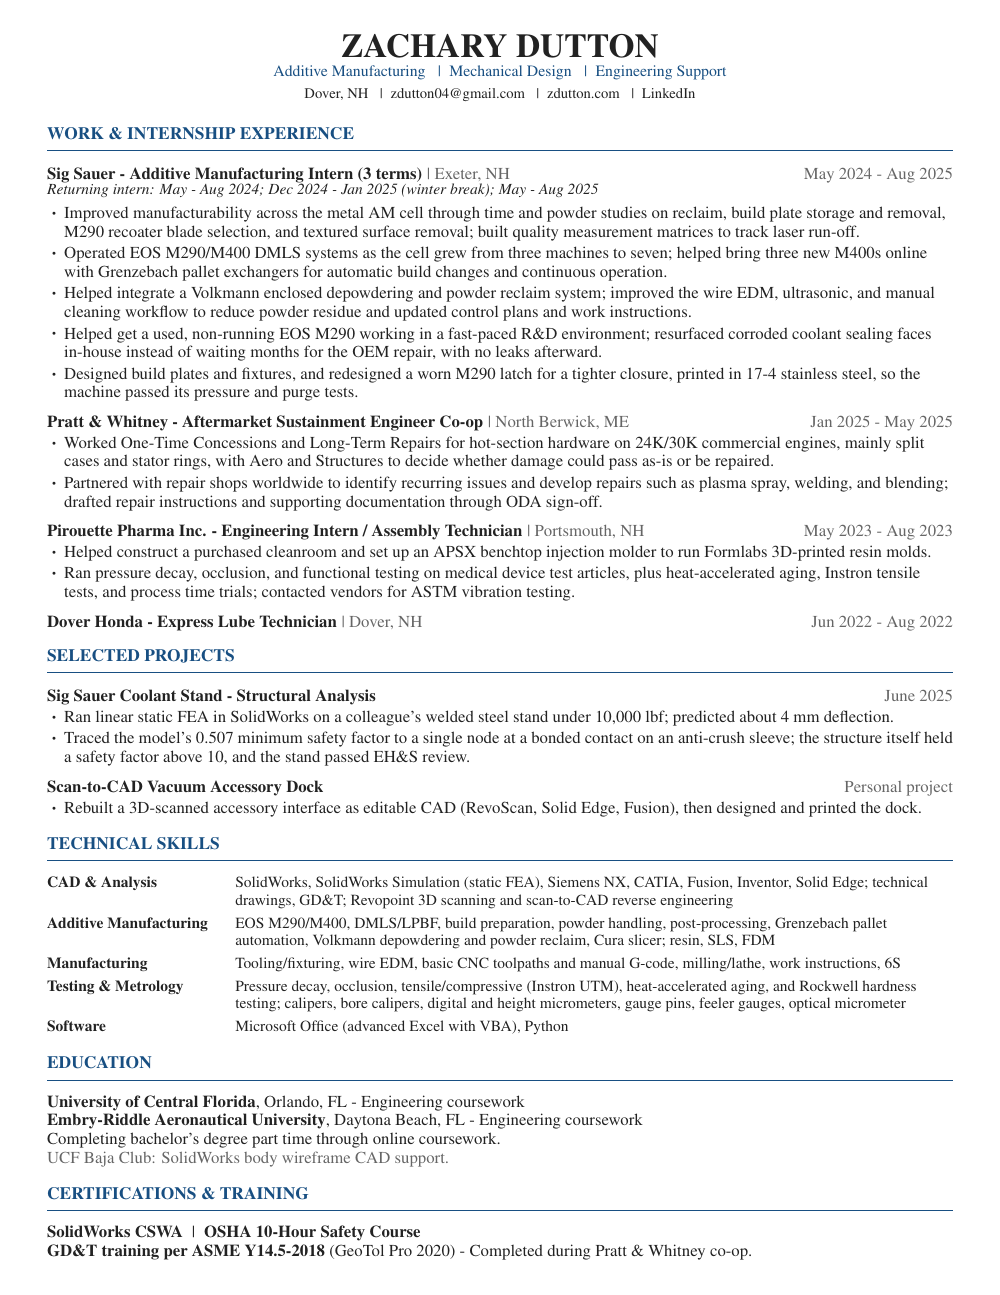
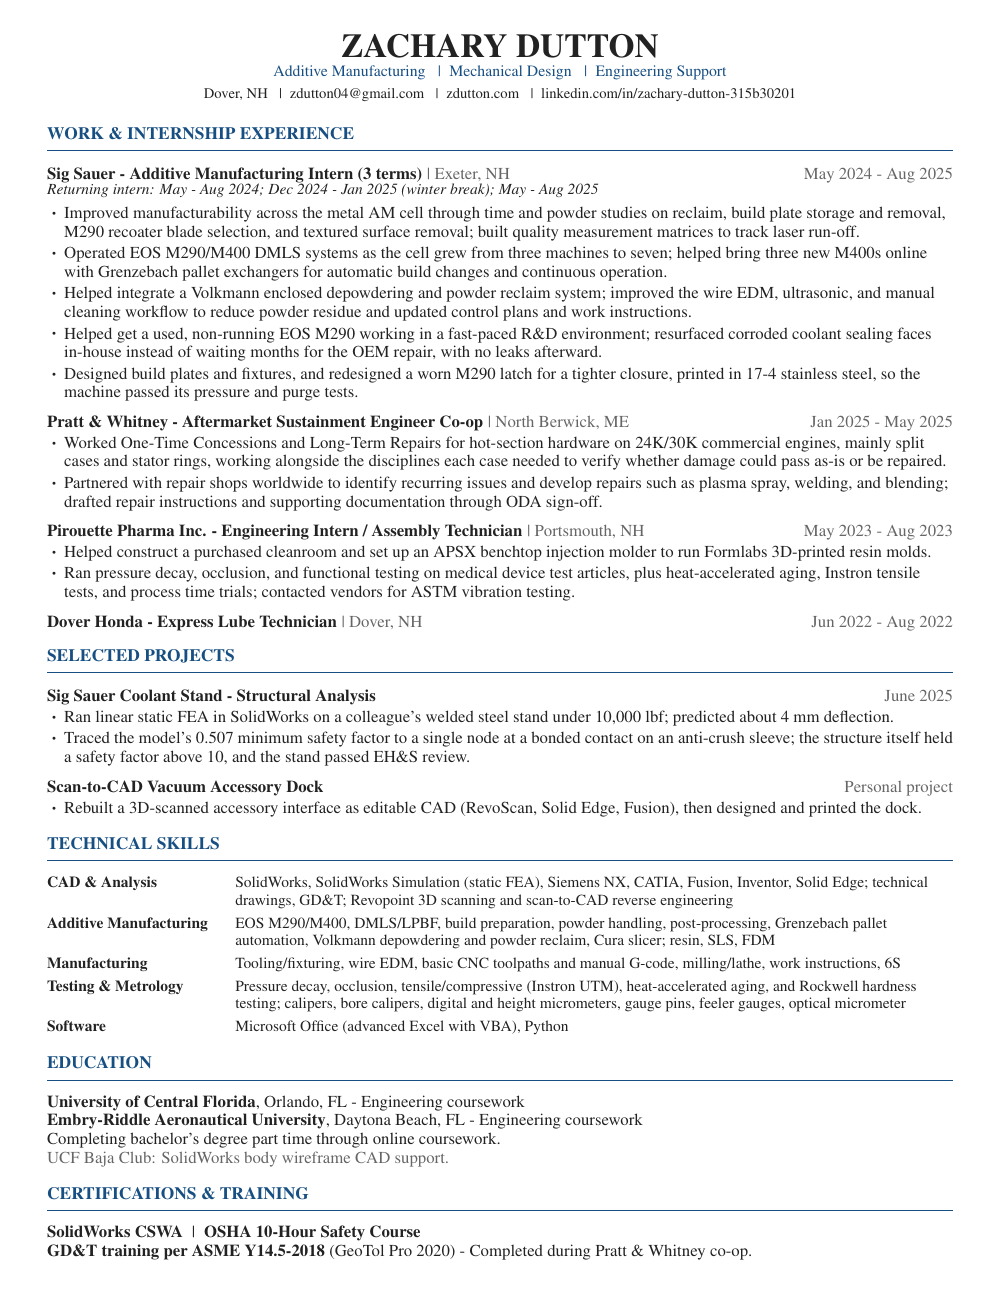
Make the resume's contact details tappable and put the footer on one line
Zachary tapped LinkedIn on the Resume page and nothing happened,
because the page shows the resume as a picture.

- Transparent link areas now sit over the email, website and LinkedIn
  in the picture. Their positions come from the PDF's own link
  annotations, padded a little for tapping. PROJECT_BRIEF.md has the
  snippet to re-read them when the PDF changes.
- The resume shows the LinkedIn address in full instead of the word
  LinkedIn, so it works on paper too.
- The Pratt & Whitney line no longer names Aero and Structures. They
  were two of many disciplines, and choosing which ones a case needed
  was part of the job, so it now says he worked alongside the
  disciplines each case needed to verify whether damage could pass
  as-is or be repaired.
- On phones the footer's email and LinkedIn links sit side by side on
  one line under Contact instead of stacking.

Claude-Session: https://claude.ai/code/session_01KtAh9Up7DcUnbFYVhpCCBK

diff --git a/src/styles/global.css b/src/styles/global.css
@@ -84,7 +84,10 @@ nav a:hover, nav a[aria-current="page"] { text-decoration: underline; }
 .resume-view { padding-block: 2.5rem 4rem; }
 .resume-frame { max-width: 52rem; margin-inline: auto; }
 .resume-actions { display: flex; flex-wrap: wrap; gap: 1rem; margin-bottom: 2rem; }
-.resume-sheet { display: block; border: 1px solid var(--line); background: #fff; }
+.resume-sheet { position: relative; border: 1px solid var(--line); background: #fff; }
+.resume-hotspot { position: absolute; display: block; }
+.resume-hotspot:hover { background: rgba(36, 36, 33, 0.07); }
+.resume-hotspot:focus-visible { outline-offset: 1px; }
 .resume-sheet img { display: block; width: 100%; height: auto; }
 
 .project-preview { display: grid; grid-template-columns: minmax(0, 1fr) minmax(0, 1fr); gap: 3rem; align-items: center; margin-top: 2rem; }
@@ -170,7 +173,7 @@ figcaption { color: var(--muted); font-size: 0.875rem; margin-top: 0.75rem; max-
   .work-more li { grid-template-columns: minmax(0, 1fr); gap: 0.5rem; }
   .work-more { margin-top: 3rem; }
   .role { grid-template-columns: minmax(0, 1fr); gap: 1rem; }
-  .contact-links { flex-direction: column; align-items: center; gap: 0.5rem; }
+  .contact-links { gap: 1.5rem; }
   .resume-view { padding-block: 1.5rem 3rem; }
   .resume-actions { margin-bottom: 1.25rem; }
   .resume-actions .button { flex: 1 1 8rem; text-align: center; }

diff --git a/PROJECT_BRIEF.md b/PROJECT_BRIEF.md
@@ -244,6 +244,19 @@ pdftoppm -png -scale-to-x 1000 -scale-to-y -1 -singlefile public/zachary-dutton-
 python -c "from PIL import Image; [Image.open(f'r{w}.png').convert('RGB').save(f'public/images/resume/resume-{w}.webp', 'WEBP', lossless=True, method=6) for w in (1700, 1000)]"
 ```
 
+The email, website and LinkedIn shown in the picture are live links. Zachary tapped LinkedIn on the
+picture and nothing happened, so transparent link areas now sit over those three details. Their
+positions, the `links` list in `src/pages/resume.astro`, come from the PDF's own link annotations,
+converted to percent of the page and padded by 3 pt vertically and 2 pt horizontally. When the PDF
+changes, re-read them with pypdf and update the list:
+
+```
+python -c "from pypdf import PdfReader; p=PdfReader('public/zachary-dutton-resume.pdf').pages[0]; W,H=float(p.mediabox.width),float(p.mediabox.height); [print(a.get_object()['/A']['/URI'], [round(v,2) for v in a.get_object()['/Rect']]) for a in p['/Annots']]"
+```
+
+The resume itself shows the LinkedIn address in full, linkedin.com/in/zachary-dutton-315b30201,
+rather than the word LinkedIn, so it also works on paper.
+
 ## Naming
 
 Zachary asked on 23 September 2026 for the company to be written "Sig Sauer", in normal case and
@@ -264,8 +277,8 @@ Set at Zachary's request on 23 September 2026, after he reviewed the site on his
   intro because their titles are long.
 - On phones, the home portrait and the About portrait float left at 44% of the width, so the text
   starts beside the photo and wraps full width below it, instead of the photo filling the screen.
-- The footer is centered: "Contact" on top, the email and LinkedIn links below it. It no longer
-  repeats his name.
+- The footer is centered: "Contact" on top, and the email and LinkedIn links side by side on one
+  line below it, on phones as well. It no longer repeats his name.
 - The Resume sections on About and Experience link to `/resume/` and carry no "updated" line.
 - The About page lists (Education, Skills and Tools) have no rule between items. Each section has
   its one top rule, and the items sit indented under the heading. Zachary found a line under every
